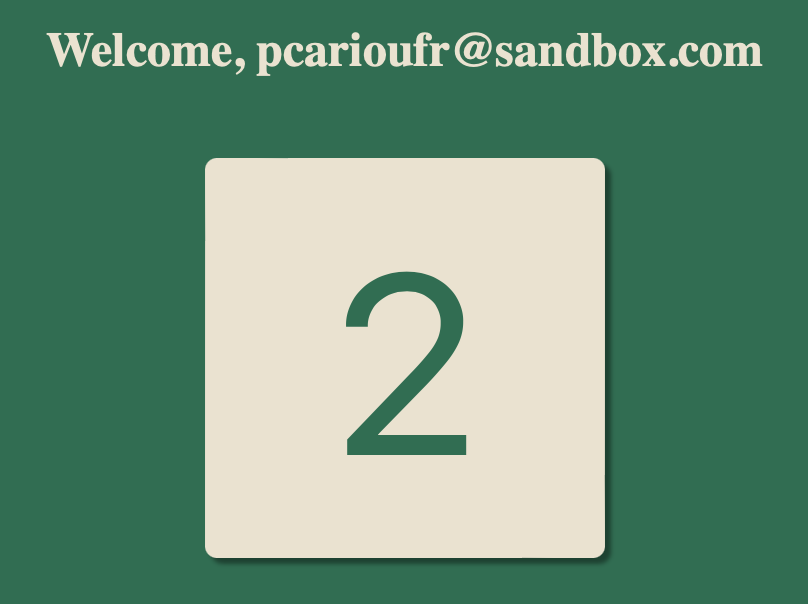
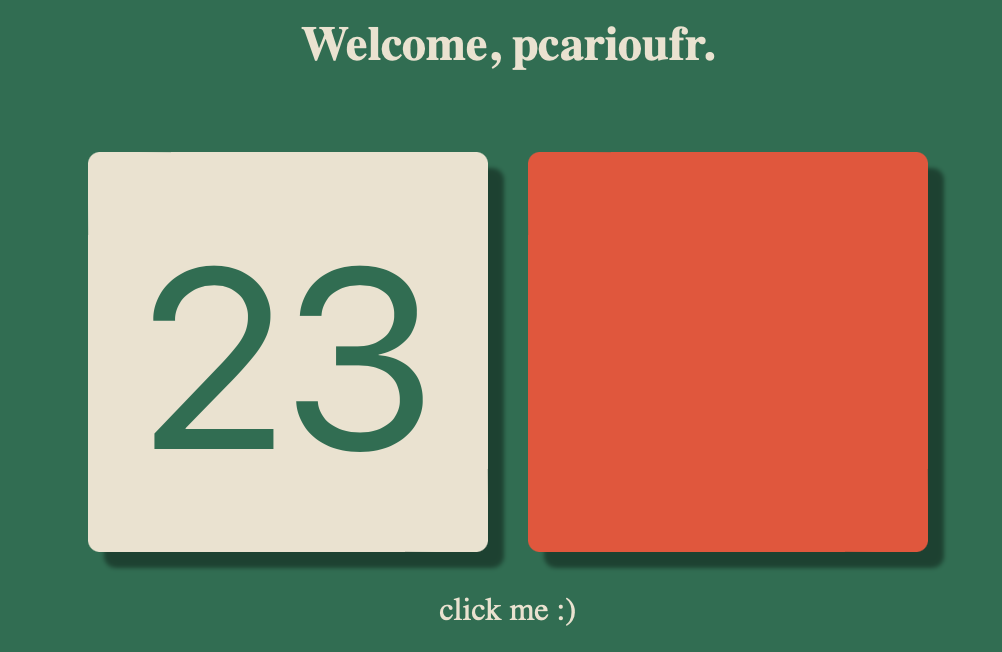
add big button that triggers errors

diff --git a/flask/app/static/home.css b/flask/app/static/home.css
@@ -4,8 +4,10 @@ html {
 }
 
 :root {
-   --green: #0c6f50;
-   --beige: #ece2ce;
+    --red: #f24a30;
+    --green: #0c6f50;
+    --dgreen: #094633;
+    --beige: #ece2ce;
 }
 
 
@@ -39,6 +41,12 @@ p {
     margin: 0px auto auto auto
 }
 
+div[flex] {
+    display: flex;
+    width: fit-content;
+    height: fit-content;
+    gap: 20px;
+}
 
 button {
     
@@ -64,6 +72,27 @@ button {
     
 }
 
+button[counter] {
+    background: var(--beige);    
+}
+
+button[counter] span {
+    color: var(--green);;
+    font-size: 128px;
+    text-align: center;
+    margin:auto
+}
+
+button[broken] {
+    background: var(--beige);    
+}
+button[broken][ok] {
+    background: var(--dgreen) !important;
+}
+button[broken][error] {
+    background: var(--red) !important;    
+}
+
 
 button:hover{
     box-shadow: 5px 5px 2px 0 rgba(0, 0, 0, 0.4);
@@ -71,11 +100,4 @@ button:hover{
 
 button:active{
     box-shadow: 1px 1px 2px 0 rgba(0, 0, 0, 0.4);
-}
-
-button span {
-    color: var(--green);;
-    font-size: 128px;
-    text-align: center;
-    margin:auto
 }

diff --git a/flask/app/routes.py b/flask/app/routes.py
@@ -7,12 +7,8 @@ import os
 
 from app.logs import log
 
-
 import random
 
-def random_id():
-    rid = ''.join((random.choice('1234567890abcdef') for i in range(8)))
-    return rid
 
 redis_client = redis.Redis(
             host=app.config["REDIS_HOST"],
@@ -75,3 +71,15 @@ def count(key=None):
     log.info("count={}".format(count))
 
     return flask.jsonify(key=key, count=count)
+
+
+@app.route("/broken", methods=['GET'])
+def broken():
+
+    r = random.random()
+
+    if r > 0.5 :
+        log.error("oops")
+        return flask.jsonify(), 500
+
+    return flask.jsonify(), 204

diff --git a/flask/app/__init__.py b/flask/app/__init__.py
@@ -14,6 +14,6 @@ def init_app():
 
     with app.app_context():
 
-        from .routes import hello_world, count
+        from .routes import hello_world, count, broken
 
         return app

diff --git a/README.md b/README.md
@@ -2,9 +2,13 @@
 
 A dummy webapp, for users click on a button and track the number of click as a vanity metric. Instrumented with Datadog for Metrics, RUM, Logs and Traces.
 
-![app overview](https://github.com/pcarioufr/datadog-flask-redis-sandbox/blob/master/readme/app.png?raw=true)
+![app overview](/readme/app.png)
 
-Users click the big-button in **Browser**, and number of clicks for that user is stored in **Redis**. **Flask** handles cookie-based authentication, web page template rendering and some back-end plumbery. 
+
+**Flask** handles cookie-based authentication, web page template rendering and some back-end plumbery. When users click in **Browser**
+* the left-hand-side big button: it increments a click-counter for that user, stored in **Redis**.
+* the right-hand-side big button: it has 50% chance to generate a 500 error.
+
 
 
 ## How To 
